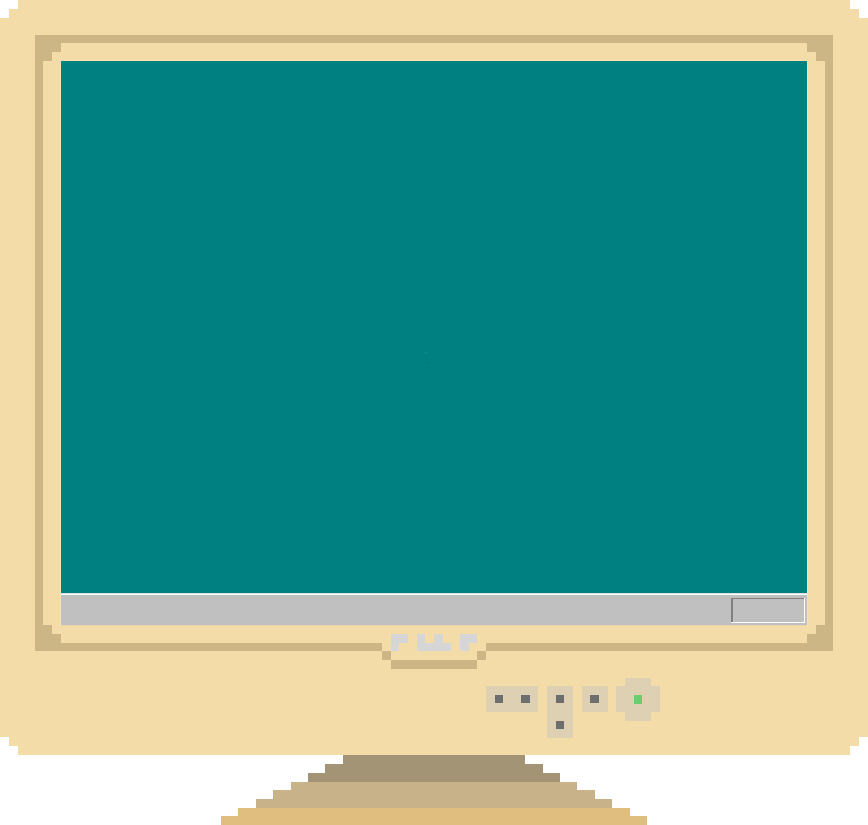
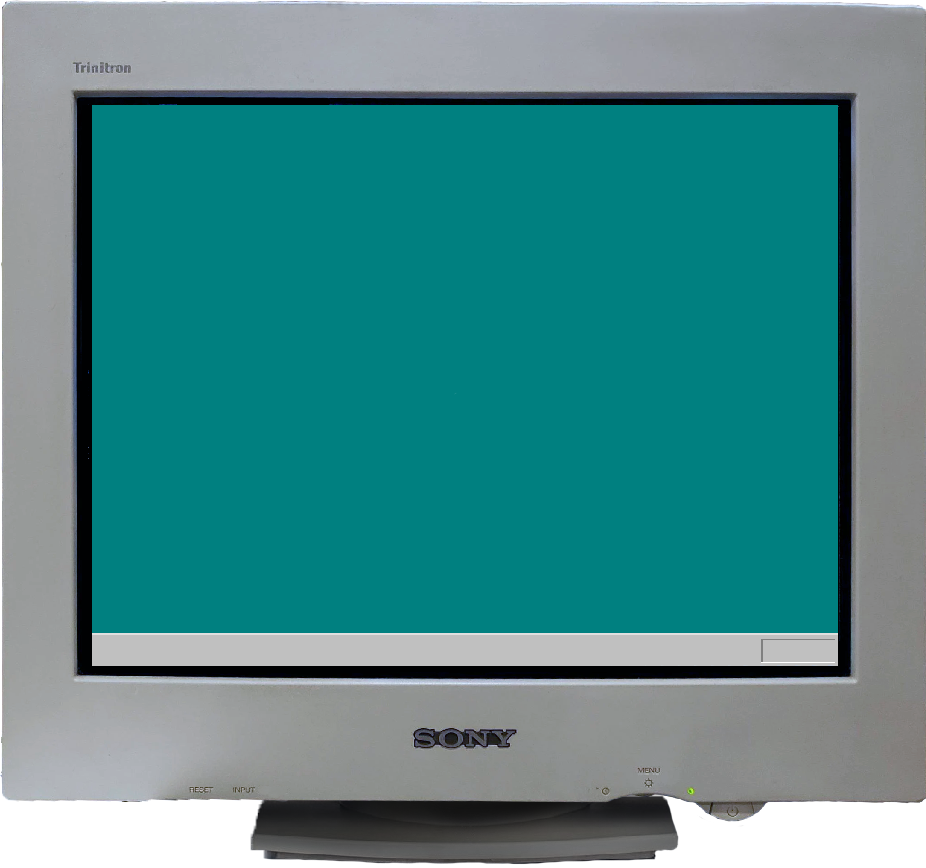
Updated monitor design + Rolling profile photo + secret

diff --git a/contact.html b/contact.html
@@ -3,12 +3,29 @@
 </div>
 <div class="contactLinkDiv">
     <div class="contactNameTitle">
+        <img src="img/harold.png" class="harryFace">
         <p>Harry Atkinson<br>
         <i style="font-size: 0.7em">Creator and Server hosting guy</i></p>
     </div>
     <hr>
     <table>
         <tr>
+            <td>
+                <a href="https://github.com/DigitalJesus">
+                    <div class="contactLink">
+                        <img src="/img/win98ico/application_hammer_grouppol.ico" class="contactLinkIco" style="min-height: 5vh">
+                        GitHub
+                    </div>
+                </a>
+            </td>
+            <td>
+                <a href="http://discord.gg/QA6RjxR">
+                    <div class="contactLink">
+                        <img src="/img/win98ico/laptop_infrared_2.ico" class="contactLinkIco">
+                        Discord
+                    </div>
+                </a>
+            </td>
             <td>
                 <a href="http://t.me/hazzard1579">
                     <div class="contactLink">
@@ -22,14 +39,6 @@
                     <div class="contactLink">
                         <img src="/img/win98ico/joystick.ico" class="contactLinkIco">
                         Steam
-                    </div>
-                </a>
-            </td>
-            <td>
-                <a href="http://discord.gg/QA6RjxR">
-                    <div class="contactLink">
-                        <img src="/img/win98ico/laptop_infrared_2.ico" class="contactLinkIco">
-                        Discord
                     </div>
                 </a>
             </td>
@@ -54,14 +63,6 @@
                     <div class="contactLink">
                         <img src="/img/win98ico/recycle_bin_full.ico" class="contactLinkIco">
                         Twitter
-                    </div>
-                </a>
-            </td>
-            <td>
-                <a href="https://github.com/DigitalJesus">
-                    <div class="contactLink">
-                        <img src="/img/win98ico/application_hammer_grouppol.ico" class="contactLinkIco" style="min-height: 5vh">
-                        GitHub
                     </div>
                 </a>
             </td>

diff --git a/style.css b/style.css
@@ -11,18 +11,18 @@ p{
     text-align: left;
 }
 .monitor{
-    width: 100vh;
-    height: 97vh;
+    width: auto;
+    height: 105vh;
     display: inline-block;
     position: relative;
 }
 .screen{
         overflow:hidden;
-        width: 85.8%;
-        height: 68.5%;
+        width: 80.6%;
+        height: 64.8%;
         position: absolute;
-        top: 7.4%;
-        left: 7.1%;
+        top: 12.1%;
+        left: 9.9%;
 }
 .icon{
     font-size: 1.6vh;
@@ -70,7 +70,7 @@ p{
 }
 .contactLinkDiv{
     width: auto;
-    height: 30vh;
+    height: 24vh;
 }
 .contactLink{
     width: 7vh;
@@ -87,10 +87,22 @@ p{
     min-height: 5vh;
 }
 .contactNameTitle{
+    display: inline-block;
+    text-align: left;
+    width: 100%;
     font-family: "Microsoft Sans Serif";
     -webkit-font-smoothing: none;
     font-size: 2vh;
     margin-left: 1em;
+    margin-top: 0.8em;
+}
+.harryFace{
+    width: 8vh;
+    height:auto;
+    float: left;
+    margin-right: 2vh;
+    /* Animation */
+    animation: rotation 60s infinite linear;
 }
 /* Minecraft */
 .minecraftServerWindow{
@@ -306,4 +318,28 @@ hr{
     font-family:"Microsoft Sans Serif";
     font-weight: bold;
     z-index: 1;
+}
+
+/* Rotation Animation for harryFace */
+@keyframes rotation {
+  from {
+    transform: rotate(0deg);
+  }
+  to {
+    transform: rotate(359deg);
+  }
+}
+.smartass{
+    position: absolute;
+    top: 2453vh;
+    left: 40%;
+    height: 20vh;
+    width: auto;
+}
+.smartass2{
+    color: white;
+    position: absolute;
+    top: 5000vh;
+    left: 44%;
+    padding-bottom: 100px;
 }

diff --git a/index.html b/index.html
@@ -2,7 +2,7 @@
 <html>
 <head>
 	<meta charset="utf-8">
-	<meta name="description" content="Harry Atkinson's Spud server and it's services">
+	<meta name="description" content="Harry Atkinson's frankly shocking work">
 	<meta name="robots" content="noindex">
 	<title>The Spud</title>
 	<script src="https://code.jquery.com/jquery-3.4.1.js"></script>
@@ -24,9 +24,13 @@
 			<div id="clock"></div>
 		</div>
 	</div>
-
 <script>
 	includeHTML();
 </script>
+
+<img class="smartass" src="img/smartass.png">
+<div class="smartass2">
+	gotcha.
+</div>
 </body>
 </html>
